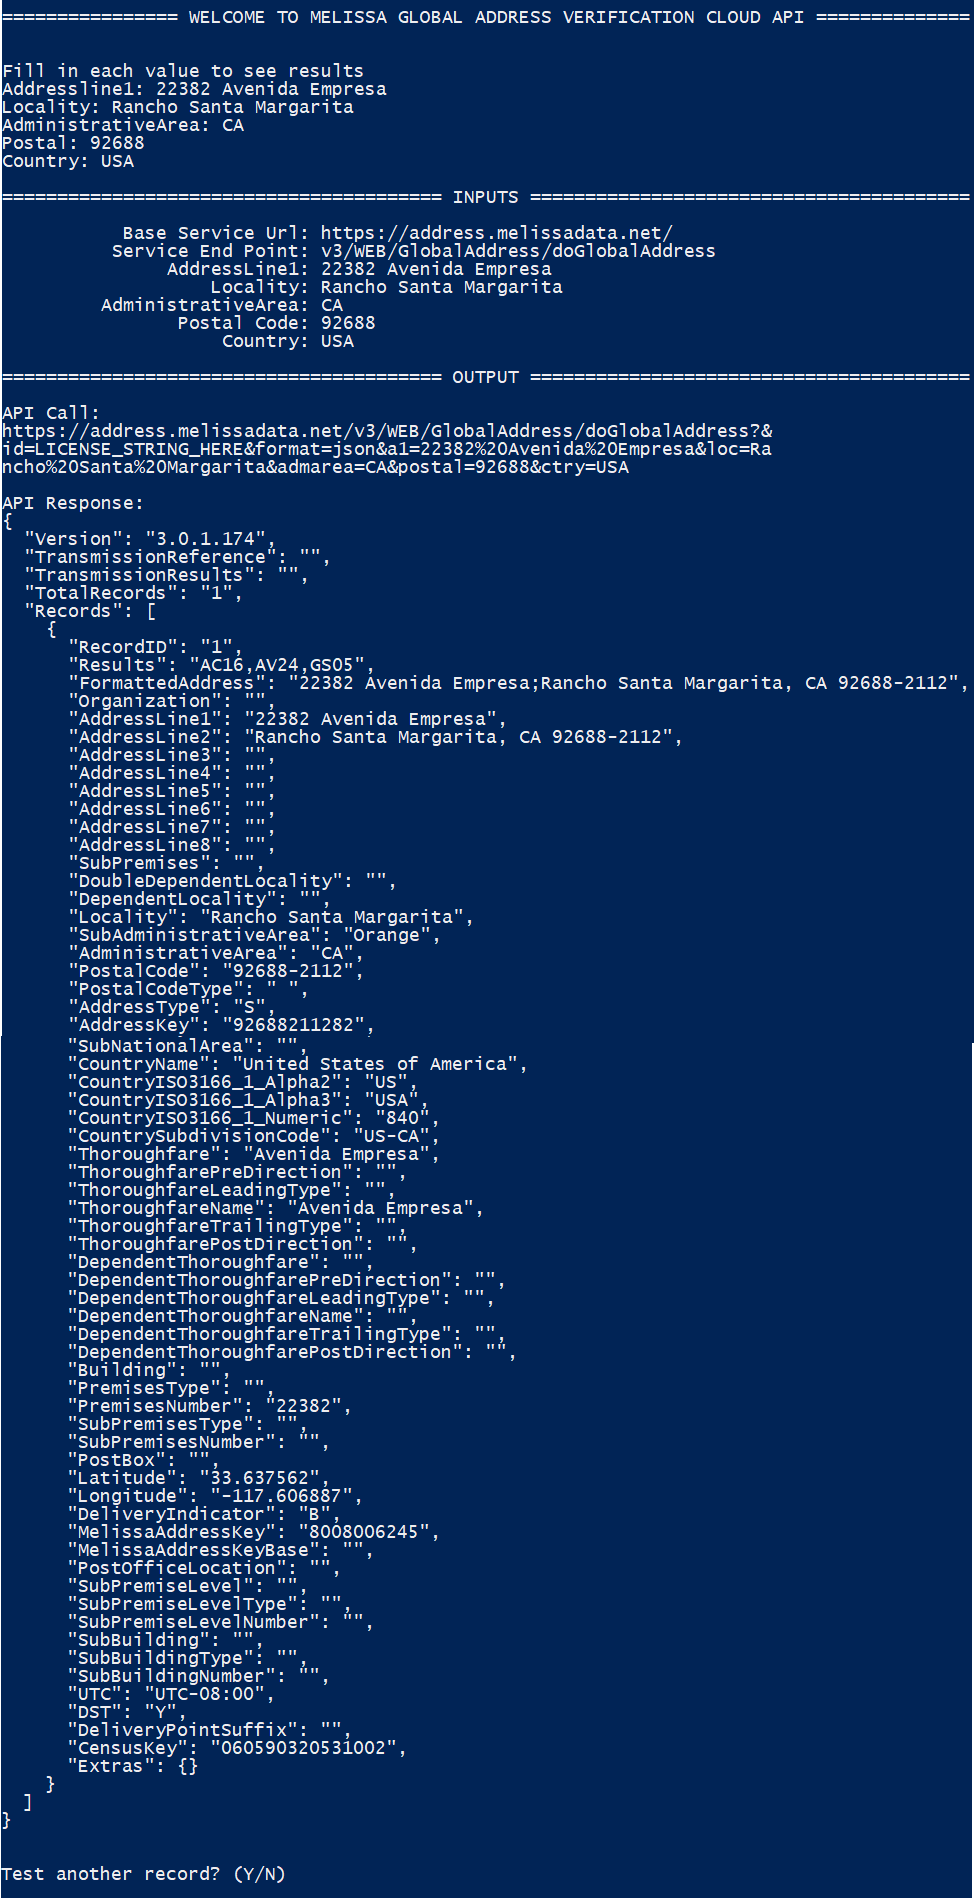
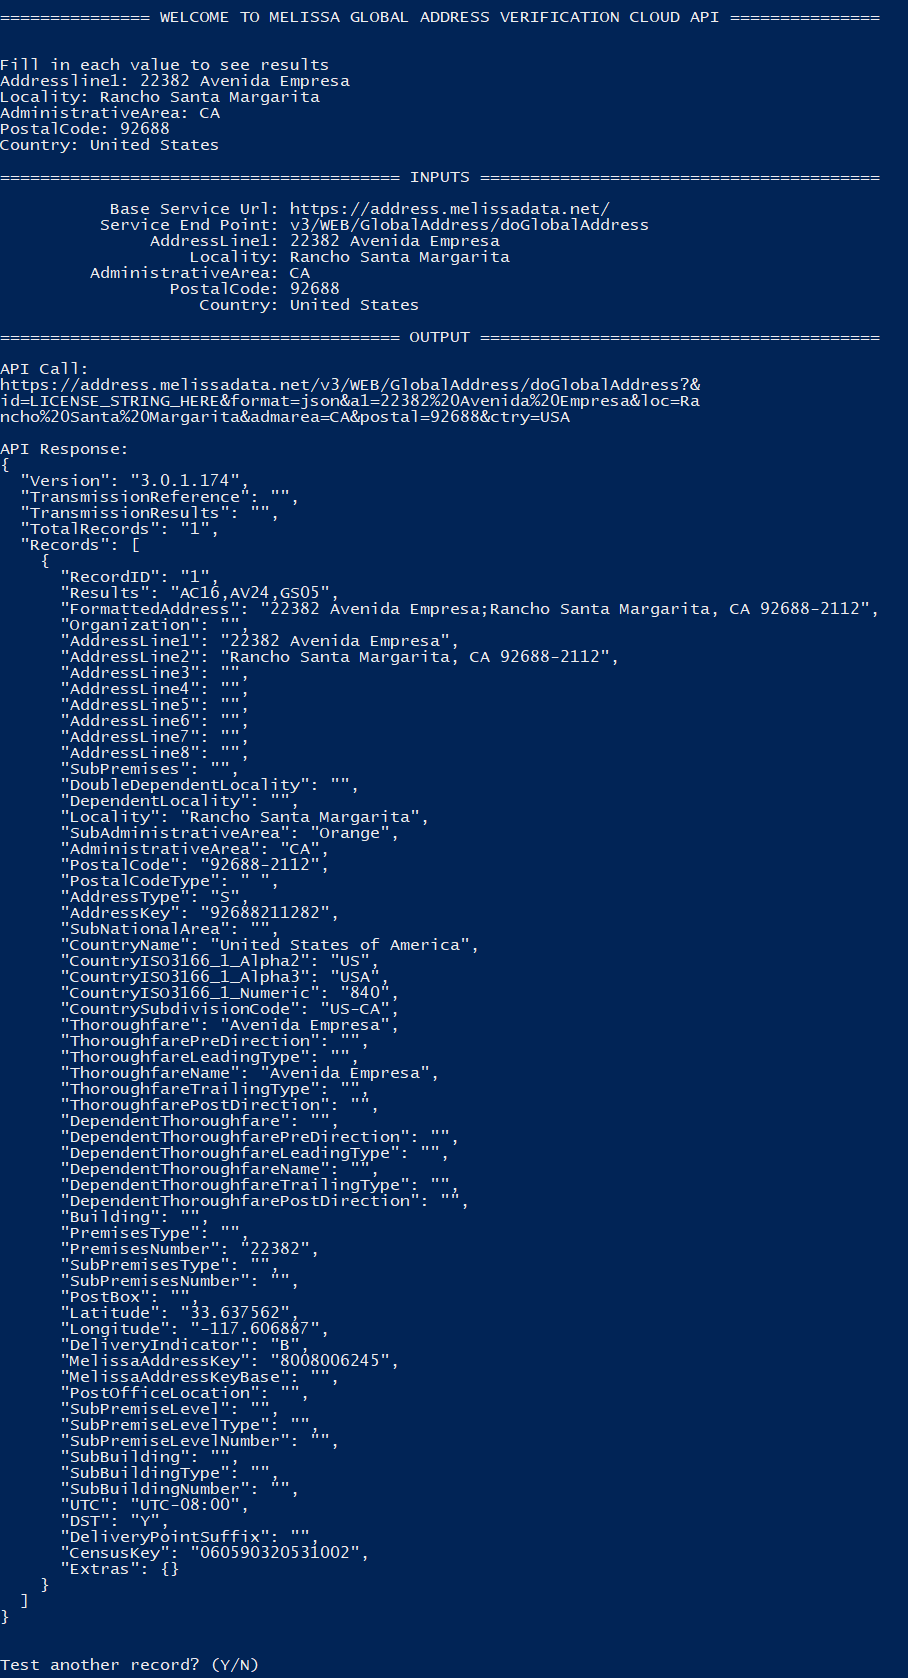
Add bash script for Melissa Global Address Verification Cloud API

Changed region(s): [[0.0, 0.0, 1.0, 1.0]]

diff --git a/GlobalAddressVerificationDotnet/Program.cs b/GlobalAddressVerificationDotnet/Program.cs
@@ -1,6 +1,7 @@
 using Newtonsoft.Json;
+using System.Security.Cryptography;
 
-namespace GlobalAddressVerification
+namespace GlobalAddressVerificationDotnet
 {
   static class Program
   {
@@ -52,7 +53,7 @@ namespace GlobalAddressVerification
             administrativeArea = args[i + 1];
           }
         }
-        if (args[i].Equals("--postalcode"))
+        if (args[i].Equals("--postal"))
         {
           if (args[i + 1] != null)
           {
@@ -95,6 +96,7 @@ namespace GlobalAddressVerification
           Console.WriteLine(APICall.Substring(i, APICall.Length - i));
         }
       }
+
       Console.WriteLine("\nAPI Response:");
       Console.WriteLine(prettyResponse);
     }
@@ -125,7 +127,7 @@ namespace GlobalAddressVerification
           Console.Write("AdministrativeArea: ");
           inputAdministrativeArea = Console.ReadLine();
 
-          Console.Write("Postal: ");
+          Console.Write("PostalCode: ");
           inputPostalCode = Console.ReadLine();
 
           Console.Write("Country: ");
@@ -164,7 +166,7 @@ namespace GlobalAddressVerification
 
           if (string.IsNullOrEmpty(inputPostalCode))
           {
-            Console.Write("Postal: ");
+            Console.Write("PostalCode: ");
             inputPostalCode = Console.ReadLine();
           }
 
@@ -191,7 +193,7 @@ namespace GlobalAddressVerification
         Console.WriteLine($"\t       AddressLine1: {inputAddressLine1}");
         Console.WriteLine($"\t           Locality: {inputLocality}");
         Console.WriteLine($"\t AdministrativeArea: {inputAdministrativeArea}");
-        Console.WriteLine($"\t        Postal Code: {inputPostalCode}");
+        Console.WriteLine($"\t         PostalCode: {inputPostalCode}");
         Console.WriteLine($"\t            Country: {inputCountry}");
 
         // Create Service Call

diff --git a/README.md b/README.md
@@ -1,4 +1,4 @@
-# Melissa - Global Address Verification Cloud API
+# Melissa - Global Address Verification Cloud API Dotnet
 
 ## Purpose
 This code showcases the Melissa Global Address Verification Cloud API using C#.
@@ -53,13 +53,22 @@ And return information of the address such as:
 - Extras
 
 ## Tested Environments
-- Windows 64-bit .NET 7.0
+- Windows 10 64-bit .NET 7.0, Powershell 5.1
+- Ubuntu Linux 20.04.04 LTS 64-bit .NET 7.0
 - Global Address Verification Cloud API Version 3.0.1.174
 
 ## Getting Started
 These instructions will get you a copy of the project up and running on your local machine for development and testing purposes.
 
-### Install the Dotnet Core SDK
+### Download this project
+```
+$ git clone https://github.com/MelissaData/GlobalAddressVerification-Dotnet
+$ cd GlobalAddressVerification-Dotnet
+```
+
+## Windows
+
+#### Install the Dotnet Core SDK
 Before starting, make sure that the .NET 7.0 SDK has been correctly installed on your machine (If you have Visual Studio installed, you most likely have it already). If you are unsure, you can check by opening a command prompt window and typing the following:
 
 `dotnet --list-sdks`
@@ -82,14 +91,7 @@ Click and download the `x64` SDK installer for your operating system.
 
 Once clicked, your web browser will begin downloading an installer for the SDK. Run the installer and follow all of the prompts to complete the installation (your computer may ask you to restart before you can continue). Once all of that is done, you should be able to verify that the SDK is installed with the `dotnet --list-sdks` command.
 
-
-### Download this project
-```
-$ git clone https://github.com/MelissaData/GlobalAddressVerification-Dotnet.git
-$ cd GlobalAddressVerification-Dotnet
-```
-
-## Run Powershell Script
+#### Run Powershell Script
 Parameters:
 - -addressline1: an input addressline1
 - -locality: an input locality
@@ -107,20 +109,83 @@ There are two modes:
 
 	The script will prompt the user for input(s), then use the provided input(s) to call the Cloud API. For example:
 	```
-	$ .\GlobalAddressVerification.ps1
+	$ .\GlobalAddressVerificationDotnet.ps1
 	```
 
 - Command Line 
 
-	You can pass a company, addressline1, locality, administrative area, postal code, country and a license string into `-addressline1`, `-locality`, `-administrativearea`, `-postalcode`, `-country` and `-license` parameters respectively to test the Cloud API. For example:
+	You can pass an address line 1, locality, administrative area, postal code, country, and a license string into `-addressline1`, `-locality`, `-administrativearea`, `-postal`, `-country` and `-license` parameters respectively to test the Cloud API. For example:
 	```
-    $ .\GlobalAddressVerification.ps1 -addressline1 "22382 Avenida Empresa" -locality "Rancho Santa Margarita" -administrativearea "CA" -postalcode "92688" -country "USA"
-    $ .\GlobalAddressVerification.ps1 -addressline1 "22382 Avenida Empresa" -locality "Rancho Santa Margarita" -administrativearea "CA" -postalcode "92688" -country "USA" -license "<your_license_string>"
+    $ .\GlobalAddressVerificationDotnet.ps1 -addressline1 "22382 Avenida Empresa" -locality "Rancho Santa Margarita" -administrativearea "CA" -postal "92688" -country "United States"
+    $ .\GlobalAddressVerificationDotnet.ps1 -addressline1 "22382 Avenida Empresa" -locality "Rancho Santa Margarita" -administrativearea "CA" -postal "92688" -country "United States" -license "<your_license_string>"
     ```
 
 This is the expected output from a successful setup for interactive mode:
 
 ![alt text](/screenshots/output.png)
+
+## Linux
+
+#### Install the Dotnet Core SDK
+Before starting, check to see if you already have the .NET 7.0 SDK already installed by entering this command:
+
+`dotnet --list-sdks`
+
+If the .NET 7.0 SDK is already installed, you should see it in the following list:
+
+![alt text](/screenshots/dotnet_output2.png)
+
+As long as the above list contains version `7.0.xxx` (underlined in red), then you can skip to the next step. If your list does not contain version 7.0, or you get any kind of error message, then you will need to download and install the .NET 7.0 SDK.
+
+To download, run the following commands to add the Microsoft package signing key to your list of trusted keys and add the package repository.
+
+```
+wget https://packages.microsoft.com/config/ubuntu/20.04/packages-microsoft-prod.deb -O packages-microsoft-prod.deb
+sudo dpkg -i packages-microsoft-prod.deb
+rm packages-microsoft-prod.deb
+```
+
+Next, you can now run this command to install the .NET 7.0 SDK:
+
+```
+sudo apt-get update && \
+  sudo apt-get install -y dotnet-sdk-7.0
+```
+
+Once all of this is done, you should be able to verify that the SDK is installed with the `dotnet --list-sdks` command.
+
+#### Run Bash Script
+Parameters:
+- --addressline1: an input addressline1
+- --locality: an input locality
+- --administrativearea: an input administrative area
+- --postalcode: an input postal code
+- --country: an input country
+
+  This is convenient when you want to get results for a specific request in one run instead of testing multiple records in interactive mode.    
+
+- --license (optional): a license string to test the Cloud API
+
+There are two modes:
+
+- Interactive 
+
+	The script will prompt the user for input(s), then use the provided input(s) to call the Cloud API. For example:
+	```
+	$ ./GlobalAddressVerificationDotnet.sh
+	```
+
+- Command Line 
+
+	You can pass an address line 1, locality, administrative area, postal code, country, and a license string into `--addressline1`, `--locality`, `--administrativearea`, `--postal`, `--country` and `--license` parameters respectively to test the Cloud API. For example:
+	```
+    $ ./GlobalAddressVerificationDotnet.sh --addressline1 "22382 Avenida Empresa" --locality "Rancho Santa Margarita" --administrativearea "CA" --postal "92688" --country "United States"
+    $ ./GlobalAddressVerificationDotnet.sh --addressline1 "22382 Avenida Empresa" --locality "Rancho Santa Margarita" --administrativearea "CA" --postal "92688" --country "United States" --license "<your_license_string>"
+    ```
+
+This is the expected output from a successful setup for interactive mode:
+
+![alt text](/screenshots/output2.png)
 
 ## Result Codes
 For details about the result codes please refer to https://wiki.melissadata.com/index.php?title=Result_Code_Details#Global_Address_Verification
